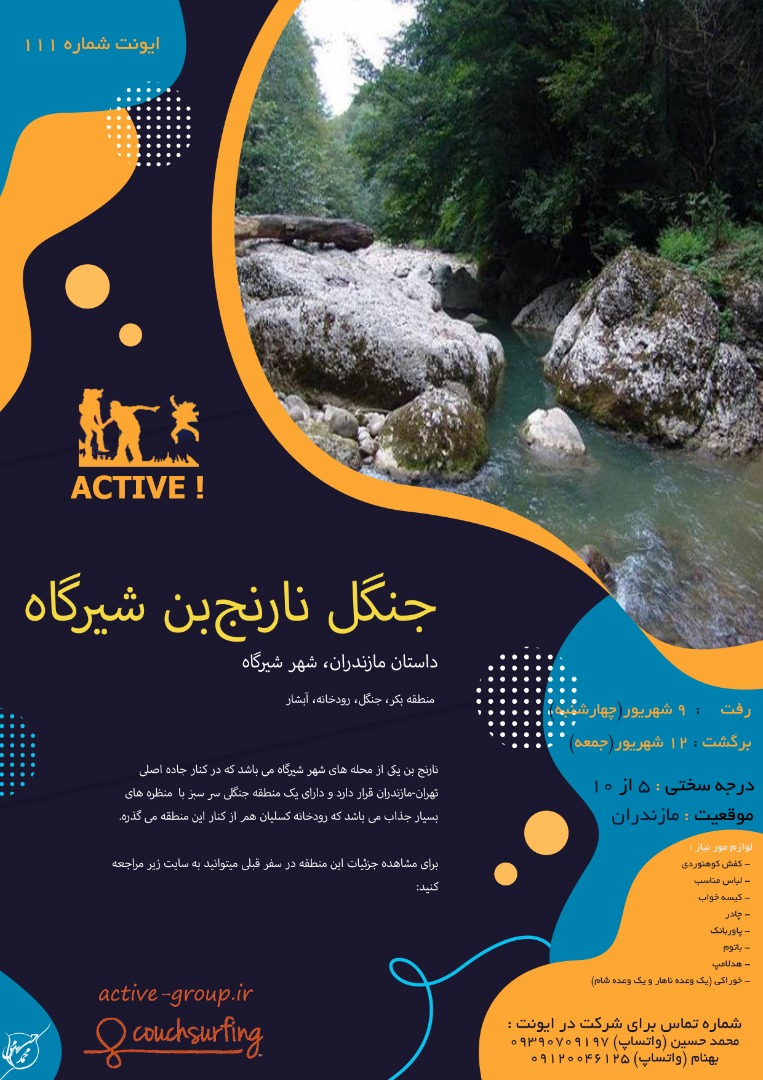
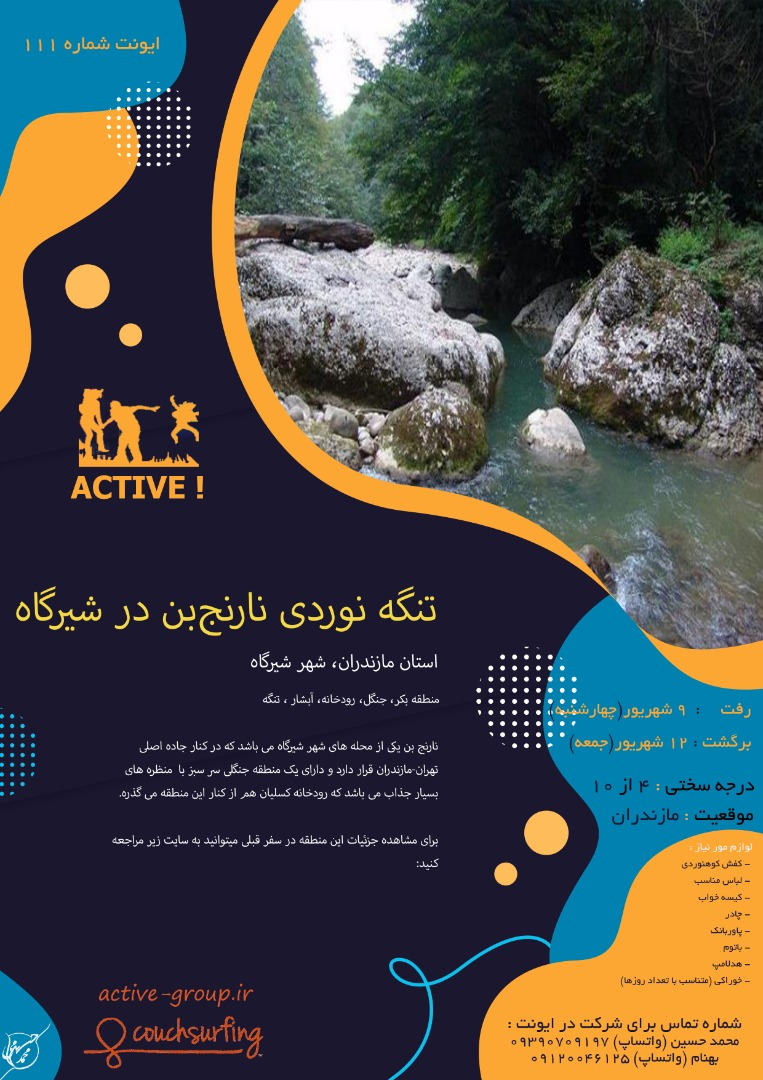
update narenjben

Changed region(s): [[0.0, 0.5194, 0.5727, 0.825], [0.7837, 0.8861, 0.9345, 0.9167]]

diff --git a/_posts/2021-08-31-narenjben.md b/_posts/2021-08-31-narenjben.md
@@ -1,11 +1,11 @@
 ---
 layout: post
-title:  "ایونت 111 - نارنج بن شهر شیرگاه"
+title:  "ایونت 111 - تنگه نوردی نارنجبن در شیرگاه"
 author: mhk
 categories: [Nature]
 tags: [nature, narenjben]
 image: assets/img/nature/111-narenjben.jpeg
-description: "ایونت 111 - نارنج بن شهر شیرگاه"
+description: "ایونت 111 - تنگه نوردی نارنجبن در شیرگاه"
 featured: true
 hidden: true
 rating: 5
@@ -19,7 +19,7 @@ rating: 5
 ## تاریخ و زمان سفر:  
   - `رفت`: چهارشنبه 10 شهریور  
   - `بازگشت`: جمعه 12 شهریور   
-  - `درجه سختی برنامه` : 5 از 10  
+  - `درجه سختی برنامه` : 4 از 10  
   - `ساعت تجمیع در محل حرکت` : 8 شب
   - `محل قرار` : سه راه تهرانپارس
   - `زمان برگشت` : جمعه
@@ -41,6 +41,7 @@ rating: 5
 این منطقه بکر هستش و تقریبا میشه گفت اطلاعاتی ازش بجز چندتا عکس داخل اینترنت نبود، پس خودتون رو برای شرایط مختلف آماده کنید.  
 در اون محل رودخونه و جنگل نوردی داریم، پس وسایل کافی داشته باشید.  
 رودی که در این منطقه وجود داره اسمش کسیلیان رود هست که طبق گفته ها قابلیت کمپ اطراف اون و همچنین شنا وجود داره.  
+`با توجه به پیمایش در رودخانه صندل یا کفش مناسب آب نوردی همراه داشته باشید`
 
 ## نکات
 
@@ -53,6 +54,8 @@ rating: 5
 `ساعت دسترسی` : شبانه روزی  
 
 `ورودی` : رایگان  
+
+`تغذیه` : به تعداد روزها
 
 ---
 
